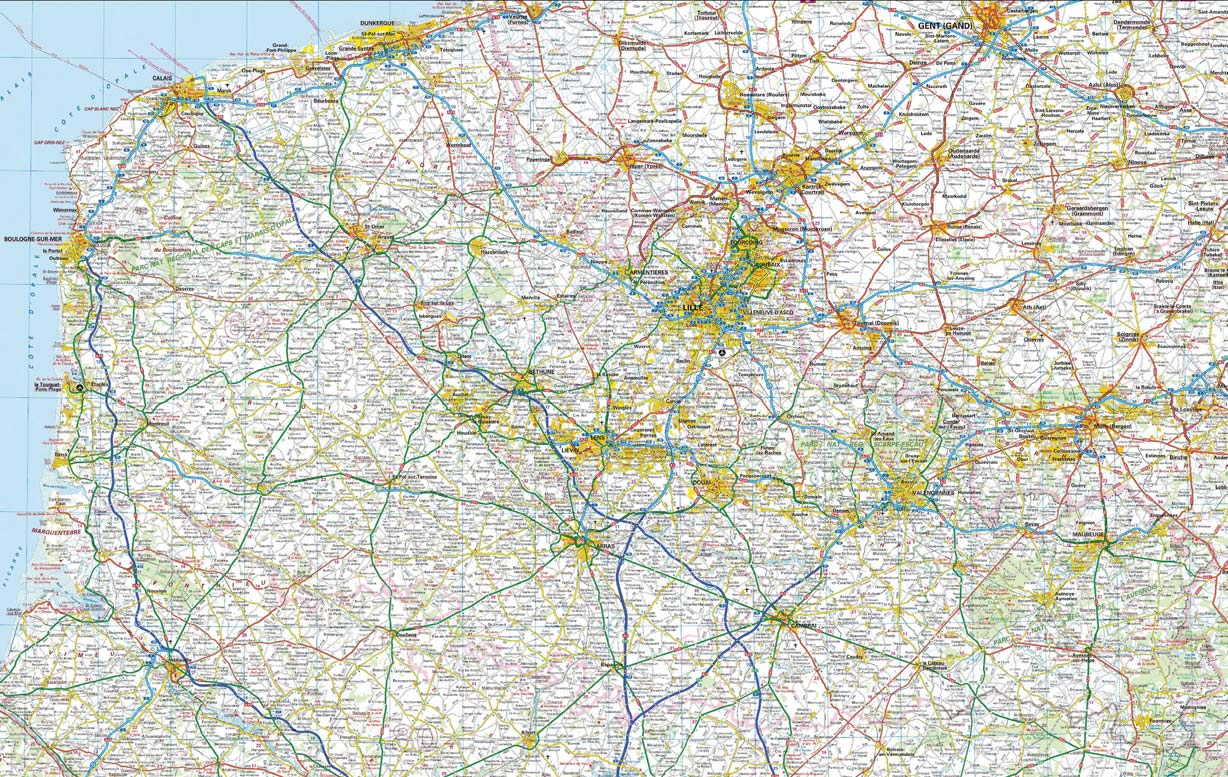
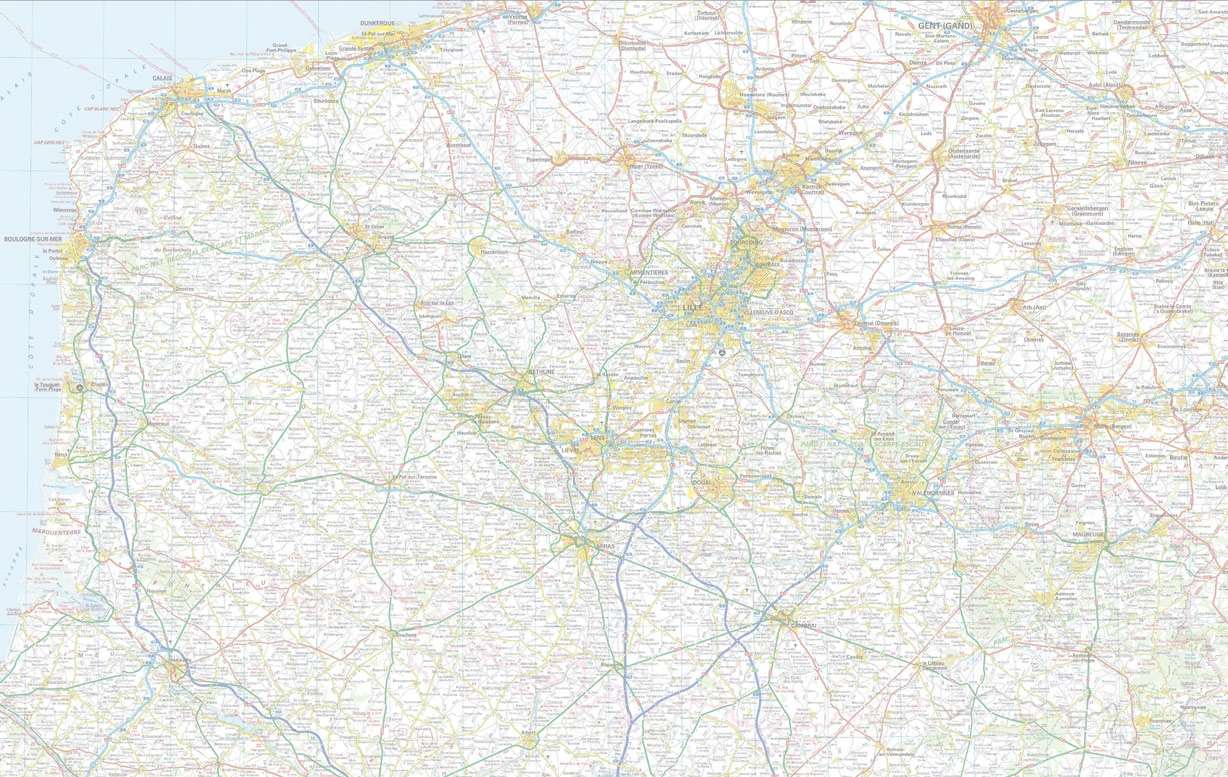
background

diff --git a/css/style.css b/css/style.css
@@ -7,7 +7,7 @@
 
 .contenu{
   min-height: 730px;
-  background-image: url(../images/background-map.jpg);
+  background-image: url(../images/background-map3.jpg);
   background-size: cover;
   padding:0;
   margin:0;

diff --git a/sql/User.sql.php b/sql/User.sql.php
@@ -21,7 +21,7 @@
 
 
 	//TRAJET
-	
+
 	User::addSqlRequest('CreateTrajet', "INSERT INTO `trajet`(id_user, `id_voiture`, `lieu_depart`, `lieu_arrivee`, `heure_depart`, `heure_arrivee`, `nombre_places`)
 											VALUES (:id_voiture, :lieu_depart, :lieu_arrivee, :heure_depart, :heure_arrivee, :nombre_places)
 											WHERE id_user = :id_user;");
@@ -30,6 +30,8 @@
 											WHERE lieu_depart = :lieu_depart AND lieu_arrivee = :lieu_arrivee AND heure_depart >= :heure_depart
 											ORDER BY heure_depart;");
 
+	User::addSqlRequest('ShowMesTrajets', "SELECT lieu_depart, lieu_arrivee, heure_depart, heure_arrivee, nombre_places, commentaire FROM TRAJET
+											WHERE id_user = :id_user;");
 
 	//VOITURE
 
@@ -38,6 +40,7 @@
 											WHERE id_user = :id_user;");
 
 	User::addSqlRequest('ShowVoiture', "SELECT modele, couleur, nombre_places, taille_bagage FROM voiture WHERE id_user = :id_user;");
+
 	User::addSqlRequest('UpdateModele', "UPDATE `voiture` SET `modele`= :newModele WHERE voiture.email = :email;");
 	User::addSqlRequest('UpdateCouleur', "UPDATE `voiture` SET `couleur`= :newCouleur WHERE voiture.email = :email;");
 	User::addSqlRequest('UpdateNbPlaces', "UPDATE `voiture` SET `nombre_places`= :newNbPlaces WHERE voiture.email = :email;");
